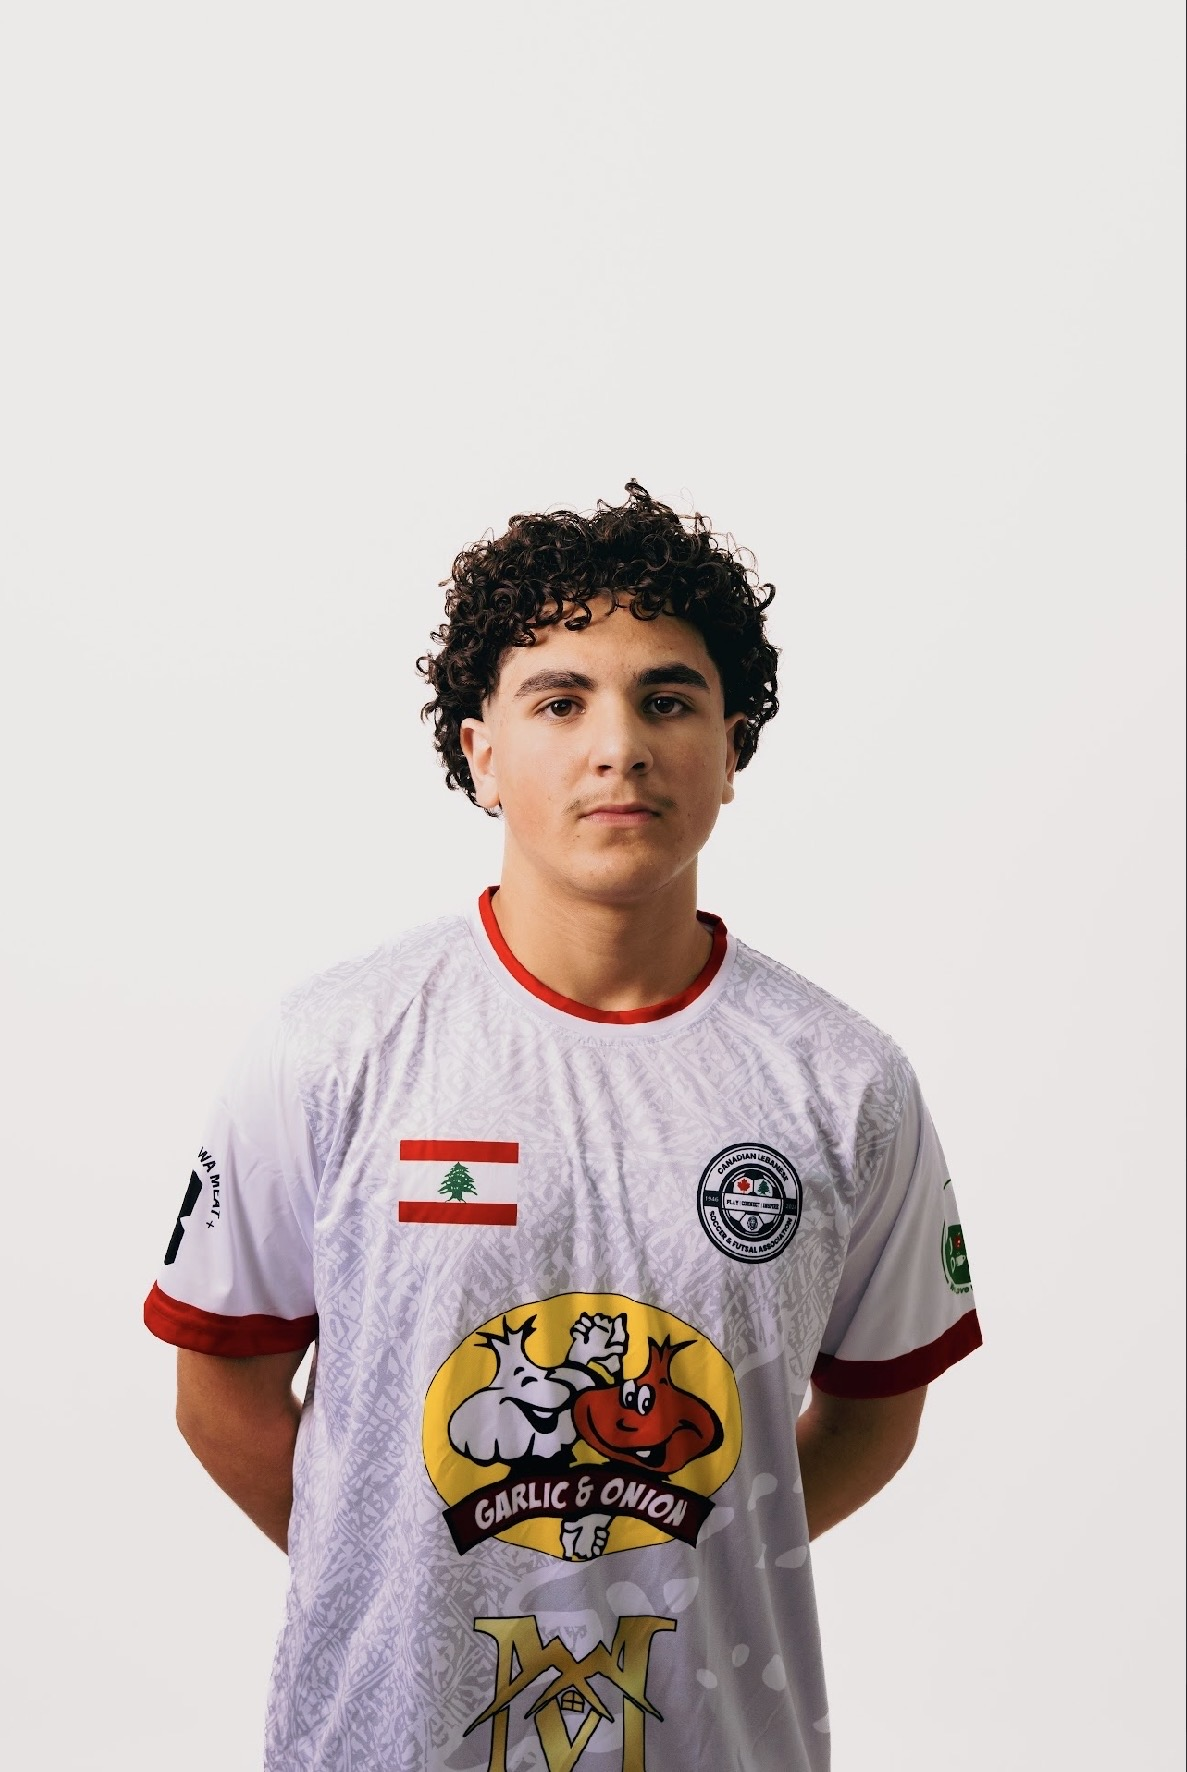
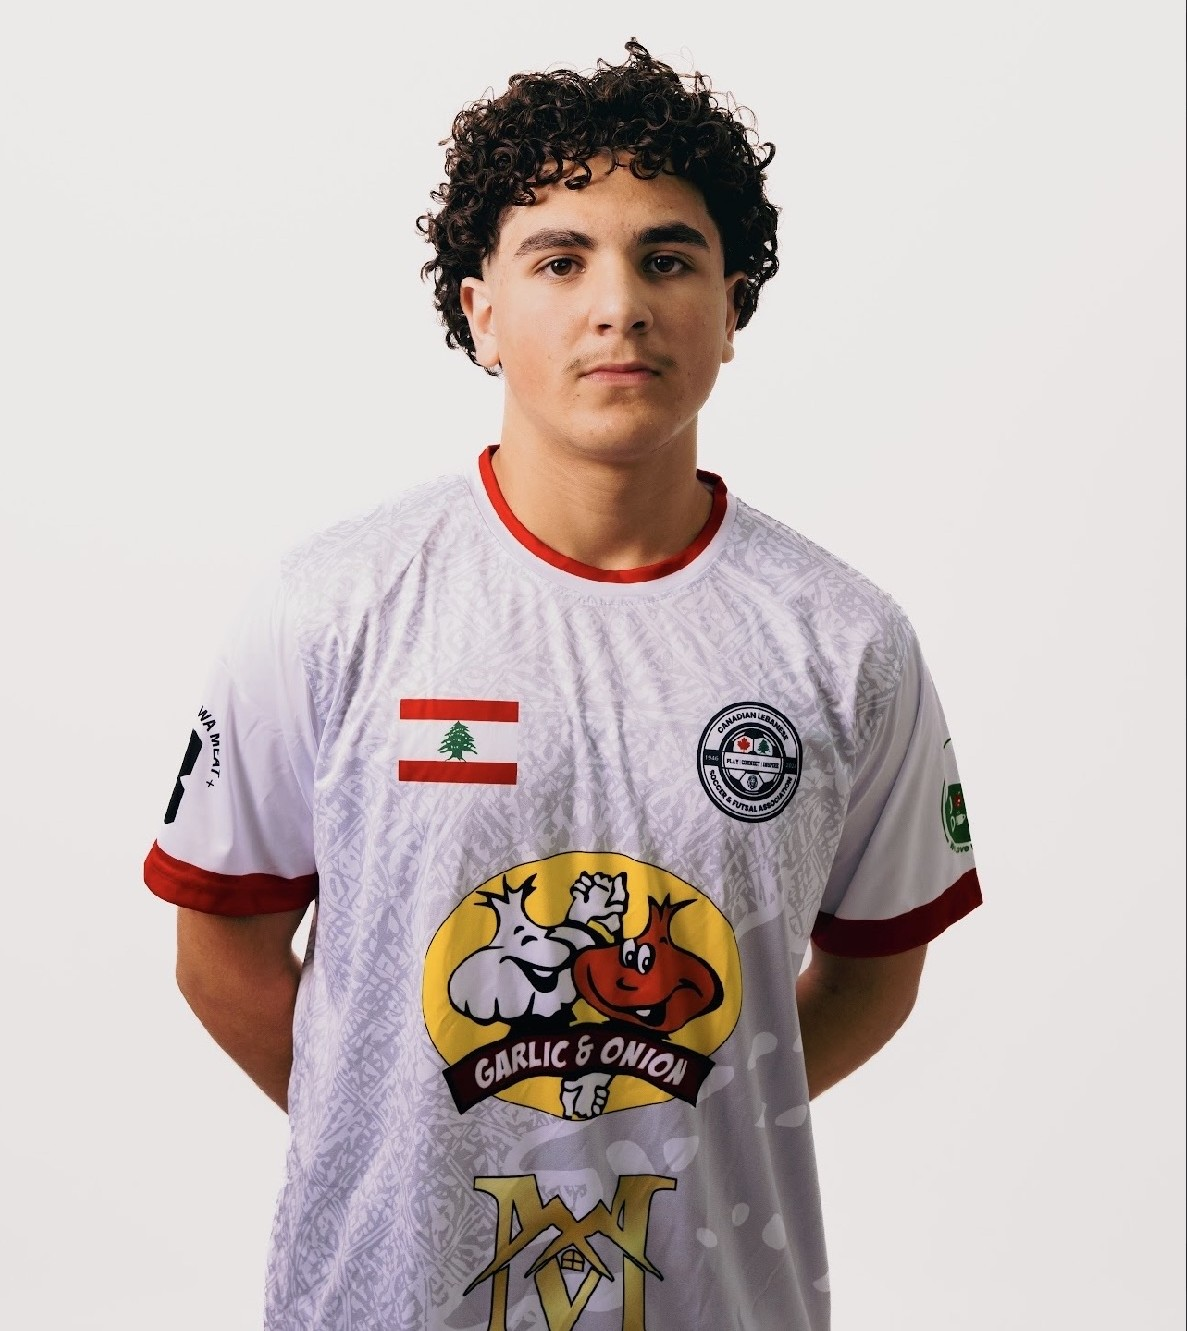
Fix mobile design and navigation

diff --git a/app/players/[slug]/page.tsx b/app/players/[slug]/page.tsx
@@ -124,6 +124,79 @@ export default async function PlayerProfilePage({
 
   const currentTeam =
     roster?.team ?? null;
+    // --------------------------------
+    // PLAYER MATCH STATISTICS
+    // --------------------------------
+
+    const {
+    data: statsData,
+    error: statsError,
+    } =
+    await supabase
+        .from("player_match_stats")
+        .select(`
+        present,
+        goals,
+        yellow_cards,
+        red_cards,
+        is_motm
+        `)
+        .eq("player_id", player.id);
+
+
+    if (statsError) {
+    console.error(
+        "Player stats error:",
+        statsError
+    );
+    }
+
+
+    type PlayerMatchStat = {
+    present: boolean;
+    goals: number;
+    yellow_cards: number;
+    red_cards: number;
+    is_motm: boolean;
+    };
+
+
+    const playerMatchStats =
+    (statsData ?? []) as PlayerMatchStat[];
+    const gamesPlayed =
+  playerMatchStats.filter(
+    (stat) => stat.present
+  ).length;
+
+
+const totalGoals =
+  playerMatchStats.reduce(
+    (total, stat) =>
+      total + stat.goals,
+    0
+  );
+
+
+const totalYellowCards =
+  playerMatchStats.reduce(
+    (total, stat) =>
+      total + stat.yellow_cards,
+    0
+  );
+
+
+const totalRedCards =
+  playerMatchStats.reduce(
+    (total, stat) =>
+      total + stat.red_cards,
+    0
+  );
+
+
+const totalMotm =
+  playerMatchStats.filter(
+    (stat) => stat.is_motm
+  ).length;
 
 
   // --------------------------------
@@ -252,7 +325,7 @@ export default async function PlayerProfilePage({
               </p>
 
               <p className="mt-2 text-3xl font-black">
-                0
+                {gamesPlayed}
               </p>
 
             </div>
@@ -267,7 +340,7 @@ export default async function PlayerProfilePage({
               </p>
 
               <p className="mt-2 text-3xl font-black text-[#00CCCD]">
-                0
+                {totalGoals}
               </p>
 
             </div>
@@ -282,7 +355,7 @@ export default async function PlayerProfilePage({
               </p>
 
               <p className="mt-2 text-3xl font-black">
-                0
+                {totalMotm}
               </p>
 
             </div>
@@ -304,6 +377,34 @@ export default async function PlayerProfilePage({
 
           </div>
 
+        <div className="mt-4 grid grid-cols-2 gap-4">
+
+        <div className="rounded-2xl border border-white/10 bg-white/[0.03] p-5">
+
+            <p className="text-xs font-black uppercase tracking-wider text-gray-500">
+            Yellow Cards
+            </p>
+
+            <p className="mt-2 text-2xl font-black">
+            {totalYellowCards}
+            </p>
+
+        </div>
+
+
+        <div className="rounded-2xl border border-white/10 bg-white/[0.03] p-5">
+
+            <p className="text-xs font-black uppercase tracking-wider text-gray-500">
+            Red Cards
+            </p>
+
+            <p className="mt-2 text-2xl font-black">
+            {totalRedCards}
+            </p>
+
+        </div>
+
+        </div>  
 
           <p className="mt-4 text-xs text-gray-600">
             Official statistics will update from LCF game sheets.

diff --git a/app/matches/page.tsx b/app/matches/page.tsx
@@ -297,11 +297,11 @@ function MatchdaySection({
         "
       >
 
-        <h2 className="text-xl font-black text-white">
+        <h2 className="text-xl font-black leading-tight text-white sm:text-2xl">
           Matchday {number} • 2026-27 Season
         </h2>
 
-        <p className="text-sm font-bold text-gray-500">
+        <p className="text-xs font-bold uppercase tracking-wide text-gray-500 sm:text-sm">
           {date}
         </p>
 
@@ -588,26 +588,42 @@ const { data: databaseMatches, error } = await supabase
 
 
 
-    <section
+        <section
       id="matches"
-      className="min-h-screen bg-[#030707] px-6 py-20 text-white"
-    >
+      className="
+        min-h-screen
+        bg-[#030707]
+        px-4
+        pb-20
+        pt-40
+        text-white
+        sm:px-6
+        md:pb-32
+        md:pt-44
+      "
+>
+    
 
       <div className="mx-auto max-w-7xl">
 
 
         {/* PAGE TITLE */}
-        <div className="mb-12">
+       {/* PAGE TITLE */}
+      <div className="mb-14">
 
-          <h1 className="mt-13 text-4xl font-black text-[#00CCCD]">
-            Matches
-          </h1>
+        <p className="text-xs font-black uppercase tracking-[0.22em] text-gray-500">
+          2026-27 Season
+        </p>
 
-          <p className="mt-2 text-sm text-gray-400">
-            Senior LaLiga LCF • 2026-27 Season
-          </p>
+        <h1 className="mt-2 text-4xl font-black leading-none tracking-tight text-[#00CCCD] sm:text-5xl">
+          Matches
+        </h1>
 
-        </div>
+        <p className="mt-3 text-sm leading-6 text-gray-400 sm:text-base">
+          Senior LaLiga LCF • Official Fixtures
+        </p>
+
+      </div>
 
 
 

diff --git a/app/players/page.tsx b/app/players/page.tsx
@@ -863,20 +863,23 @@ export default function PlayersPage() {
   return (
 
     <section
-      id="players"
-      className="
-        relative
-        min-h-screen
-        overflow-hidden
-        border-t
-        border-white/10
-        bg-[#030707]
-        px-6
-        py-24
-        text-white
-        md:py-32
-      "
-    >
+  id="players"
+  className="
+    relative
+    min-h-screen
+    overflow-hidden
+    border-t
+    border-white/10
+    bg-[#030707]
+    px-4
+    pb-20
+    pt-40
+    text-white
+    sm:px-6
+    md:pb-32
+    md:pt-44
+  "
+>
 
 
       {/* TURQUOISE BACKGROUND GLOW */}
@@ -908,9 +911,9 @@ export default function PlayersPage() {
 
           
 
-          <h1 className="mt-7 text-4xl font-black tracking-tight md:text-5xl">
-            PLAYER STATISTICS
-          </h1>
+          <h1 className="text-3xl font-black leading-tight tracking-tight sm:text-4xl md:text-5xl">
+          PLAYER STATISTICS
+        </h1>
 
           <p className="mt-4 max-w-2xl text-base leading-7 text-gray-400">
             Follow the LCF individual award races,

diff --git a/app/teams/[slug]/page.tsx b/app/teams/[slug]/page.tsx
@@ -905,10 +905,14 @@ export default async function TeamPage({
 
                 return (
 
-                  <div
+                  <Link
                     key={entry.id}
-                    className="rounded-2xl border border-white/10 bg-white/[0.03] p-5 transition hover:border-[#00CCCD]/40"
+                    href={`/players/${player.slug}`}
+                    className="block rounded-2xl border border-white/10 bg-white/[0.03] p-5 transition hover:border-[#00CCCD]/40"
                   >
+
+                 
+                  
 
                     <div className="flex items-center gap-4">
 
@@ -944,8 +948,10 @@ export default async function TeamPage({
                       </div>
 
                     </div>
+                    </Link>
 
-                  </div>
+                  
+
 
                 );
 
